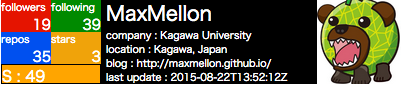
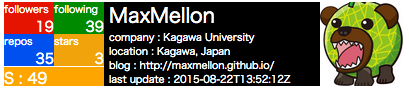
[modify] border style

diff --git a/build/styles/github_signature.min.css b/build/styles/github_signature.min.css
@@ -1,1 +1,1 @@
-.signature{width:400px;height:84px;background-color:#000;color:#fff;overflow:hidden;box-sizing:border-box;font-family:"meiryo UI"}.signature .sig-color-box-list{width:100px;height:64px}.signature .sig-color-box-list .sig-scouter{float:left;width:98px;height:18px;border:1px solid #000;font-size:15px}.signature .sig-color-box-list .sig-color-box{font-size:19px;float:left;width:50px;height:32px}.signature .sig-color-box-list .sig-color-box-num{font-size:14px;text-align:right}.signature .sig-container{position:relative;bottom:86px;left:102px;width:216px;height:84px;margin-left:3px;clear:both;float:left}.signature .sig-container .sig-text{font-size:7px;height:14px;margin:0;padding:0}.signature .sig-container .sig-user-name{position:relative;clear:both;height:30px}.signature .sig-avatar{position:relative;bottom:84px;float:right;height:84px}
+.signature{width:400px;height:84px;background-color:#000;color:#fff;overflow:hidden;box-sizing:border-box;font-family:"meiryo UI"}.signature .sig-color-box-list{width:100px;height:64px}.signature .sig-color-box-list .sig-scouter{float:left;width:100px;height:19px;border-top:1px solid #fff;font-size:15px}.signature .sig-color-box-list .sig-color-box{font-size:19px;float:left;width:50px;height:32px}.signature .sig-color-box-list .sig-color-box-num{font-size:14px;text-align:right}.signature .sig-container{position:relative;bottom:86px;left:102px;width:216px;height:84px;margin-left:3px;clear:both;float:left}.signature .sig-container .sig-text{font-size:7px;height:14px;margin:0;padding:0}.signature .sig-container .sig-user-name{position:relative;clear:both;height:30px}.signature .sig-avatar{position:relative;bottom:84px;float:right;height:84px}

diff --git a/src/styles/github_signature.sass b/src/styles/github_signature.sass
@@ -18,9 +18,9 @@ $main-height: 84px
 
     .sig-scouter
       float: left
-      width: $box-list-width - 2px
-      height: 18px
-      border: 1px solid black
+      width: $box-list-width
+      height: 19px
+      border-top: 1px solid white
       font-size: 15px
 
     .sig-color-box
@@ -59,7 +59,6 @@ $main-height: 84px
       height: 30px
 
   .sig-avatar
-    // margin-top: -4px
     position: relative
     bottom: $avatar-size
     float: right

diff --git a/build/styles/github_signature.css b/build/styles/github_signature.css
@@ -11,9 +11,9 @@
     height: 64px; }
     .signature .sig-color-box-list .sig-scouter {
       float: left;
-      width: 98px;
-      height: 18px;
-      border: 1px solid black;
+      width: 100px;
+      height: 19px;
+      border-top: 1px solid white;
       font-size: 15px; }
     .signature .sig-color-box-list .sig-color-box {
       font-size: 19px;
